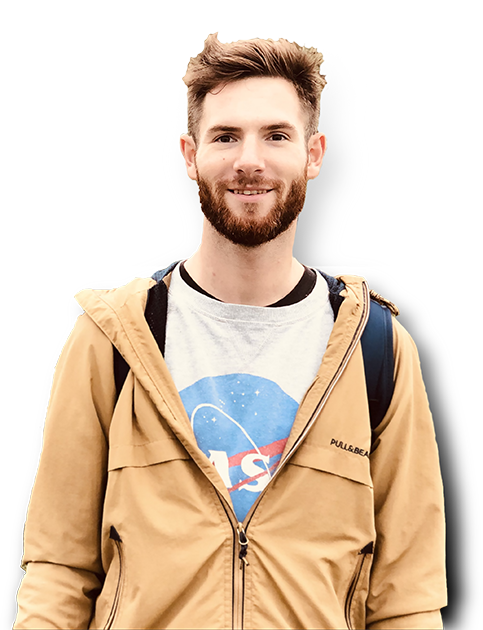
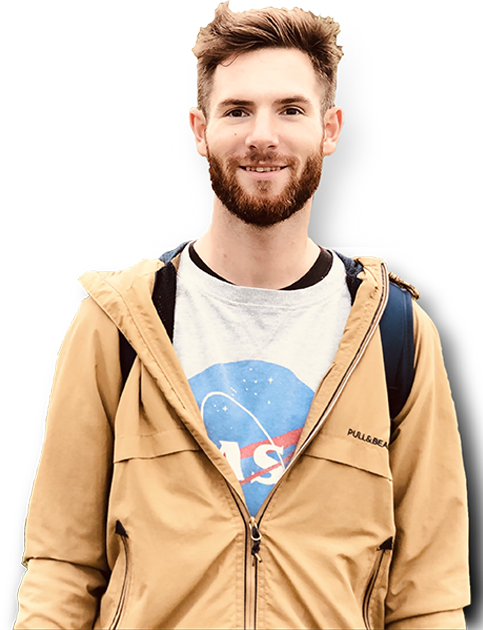
--upd header and first block responsive

diff --git a/css/styles.css b/css/styles.css
@@ -13,6 +13,17 @@
        url('../fonts/roboto-v20-latin_cyrillic-regular.woff2') format('woff2'), /* Super Modern Browsers */
        url('../fonts/roboto-v20-latin_cyrillic-regular.woff') format('woff'); /* Modern Browsers */
 }
+
+/* roboto-900 - latin_cyrillic */
+@font-face {
+  font-family: 'Roboto';
+  font-style: bold;
+  font-weight: 900;
+  src: local('Roboto Black'), local('Roboto-Black'),
+       url('../fonts/roboto-v20-latin_cyrillic-900.woff2') format('woff2'), /* Super Modern Browsers */
+       url('../fonts/roboto-v20-latin_cyrillic-900.woff') format('woff'), /* Modern Browsers */
+}
+
 /* roboto-italic - latin_cyrillic */
 @font-face {
   font-family: 'Roboto';
@@ -86,16 +97,17 @@ p, h1 {
 
 .main-block{
   overflow-x: hidden;
-  overflow-y: hidden;
   background-color: #fff;
 }
 
 #top-card {
   padding-left: 0;
   padding-right: 0;
+
 }
 
 .main-block__photo-container {
+  height: 385px;
   display: flex;
   flex-direction: column;
   justify-content: flex-end;
@@ -121,29 +133,37 @@ p, h1 {
 
 .content__name {
   font-size: 30px;
-  margin: 20px 0;
+  margin: 10px 0;
 }
 
 .content__title {
   font-size: 16px;
+  text-align: center;
   color: #c5c9d6;
 }
 
-.button-get-info {
-  border: 1px solid #21e6c1;
-  background-color: #21e6c1;
-  padding: 15px 20px;
-  text-align: center;
-  margin-top: 20px;
-  outline: none;
-  width: 100%;
-  color: #071e3d;
+.button {
+  border-radius: 0;
   font-size: 18px;
+  text-align: center;
+  border: 1px solid;
+  width: 200px;
+  height: 44px;
+  outline: none;
   cursor: pointer;
 }
 
-.button-get-info:hover {
+.button:hover {
   box-shadow: 2px 2px 5px gray;
+}
+
+.button-get-info {
+  border-color: #21e6c1;
+  background-color: #21e6c1;
+  margin-top: 30px;
+  color: #071e3d;
+  width: 100%;
+  height: 54px;
 }
 
 .srvices {
@@ -216,7 +236,8 @@ p, h1 {
 
 @media (min-width: 768px) {
   .container {
-    max-width: 720px;
+    min-width: 720px;
+    max-width: 945px;
   }
 
   .main-block {
@@ -227,20 +248,22 @@ p, h1 {
     position: relative;
     flex-direction: row;
     flex-wrap: nowrap;
-    padding-left: 20px;
-    padding-right: 20px;
+    height: 665px;
+
   }
 
   .main-block__photo-container {
     order: 1;
     position: absolute;
+    bottom: 0;
     right: -25%;
     width: 750px;
     height: 630px;
-    padding-left: 200px;
+    padding-left: 0;
     background: url('../img/ellipse_blue.png') no-repeat center 250px;
     background-size: contain;
     z-index: -10;
+    align-self: flex-end;
   }
 
   .main-block__content {
@@ -251,11 +274,14 @@ p, h1 {
   .photo-container__main-photo {
     height: 630px;
 
-   object-fit: contain;
+    object-fit: contain;
   }
 
   .button-get-info {
-    width: 270px;
+    max-width: 320px;
+    height: 68px;
+    width: 100%;
+    margin: 0;
   }
 
   .main-block__content {
@@ -264,15 +290,40 @@ p, h1 {
 
   .content__name {
     font-size: 54px;
+    font-weight: bold;
+    margin-top: 0;
+    margin-bottom: 20px;
   }
 
   .content__title {
     font-size: 25px;
+    margin-bottom: 40px;
   }
 }
 @media (min-width: 1025px) {
   .container {
-    max-width: 945px;
+    min-width: 945px;
+    max-width: 1170px;
+  }
+
+  .button-get-info {
+    max-width: 270px;
+    height: 58px;
+  }
+
+  .main-block__content {
+    padding: 190px 0;
+  }
+
+  .content__name {
+    font-size: 80px;
+    font-weight: bold;
+    margin-bottom: 0;
+  }
+
+  .content__title {
+    font-size: 25px;
+    margin-bottom: 40px;
   }
 
   .pricing {

diff --git a/index.html b/index.html
@@ -21,7 +21,7 @@
         </ul> <!--  .menu -->
       </nav>
       <a class="header__contacts" href="tel:+353852860646" target="_blank">+353 (85) 286-06-46</a> <!--  .contacts -->
-      <button class="button-get-started">Get Started</button>
+      <button class="button button-get-started button-get-started--mobile">Get Started</button>
     </div> <!--  .container -->
   </header>
   <main>
@@ -41,7 +41,7 @@
         <div class="main-block__content">
           <h1 class="content__name">Danila Kornilov</h1> <!--  .content__name -->
           <p class="content__title">Full stack Python developer</p> <!--  .content__title -->
-          <button class="button-get-info">Get info</button>
+          <button class="button button-get-info">Get info</button>
         </div> <!--  .main-block__content -->
       </div> <!--  #top_card -->
     </section> <!--  .main-block -->
@@ -68,9 +68,9 @@
     <div class="container footer" id="footer-container">
       <nav>
         <ul class="footer__menu">
-          <li class="item"><p><a href="#">Services</a></p></li>
-          <li class="item"><p><a href="#">Portfolio</a></p></li>
-          <li class="item"><p><a href="#">Pricing</a></p></li>
+          <li class="footer__item"><p><a href="#">Services</a></p></li>
+          <li class="footer__item"><p><a href="#">Portfolio</a></p></li>
+          <li class="footer__item"><p><a href="#">Pricing</a></p></li>
         </ul>
       </nav>
       <address class="footer__contacts">
@@ -78,8 +78,8 @@
         <a class="contacts" href="mailto:kornilovdanilaa@gmail.com" target="_blank"><ion-icon name="mail-open"></ion-icon>kornilovdanilaa@gmail.com</a>
       </address> <!--  .footer2 -->
       <div class="footer__actions">
-        <button class="button-get-started">Get Started</button>
-        <button class="button-get-info">Get info</button>
+        <button class="button button-get-started">Get Started</button>
+        <button class="button button-get-info">Get info</button>
         <ul class="social-networks">
           <li><a class="sn-icon vk" href="http://vk.com/" target="_blank"></a></li>
           <li><a class="sn-icon fb" href="http://facebbook.com/" target="_blank"></a></li>

diff --git a/css/header_styles.css b/css/header_styles.css
@@ -3,7 +3,7 @@
 }
 
 #header-container {
-  padding: 20px 20px;
+  padding: 18px 20px;
   display: flex;
   justify-content: space-between;
   align-items: center;
@@ -12,10 +12,10 @@
 
 .header__toggle {
   outline: none;
-  width: 35px;
-  height: 35px;
+  width: 24px;
+  height: 24px;
   background: url('../img/menu_mobile_blue.png') center no-repeat;
-  background-size: 30px;
+  background-size: contain;
   border: none;
 }
 
@@ -23,16 +23,13 @@
   background: url('../img/close.png') center no-repeat;
 }
 
-.button-get-started {
-  border: none;
+.button-get-started--mobile {
+  border: none !important;
   border-radius: 50%;
   background-color: #fff;
   background: url('../img/call_icon_blue.png') center no-repeat;
-  width: 30px;
-  height: 30px;
-  outline: none;
-  cursor: pointer;
-  font-size: 0;
+  width: 30px !important;
+  font-size: 0 !important;
 }
 
 .menu {
@@ -72,33 +69,36 @@
   border-bottom: 1px solid #21e6c1;
 }
 
-.button-get-started:hover {
-  box-shadow: 2px 2px 5px gray;
-}
 
 @media (min-width: 768px) {
+  #header-container {
+    padding: 30px 0;
+  }
+
   .header {
   background-color: transparent;
-}
+  }
+
+  .header__toggle {
+    width: 45px;
+    height: 45px;
+  }
 
   .button-get-started {
-    border: 2px solid #21e6c1;
-    border-radius: 0;
-    background-color: #fff;
+    background-color: #fff !important;
+    color: #071e3d !important;
+    border: 1px solid #21e6c1 !important;
+    width: 200px !important;
     background-image: none;
-    width: 200px;
-    height: 46px;
-    color: #071e3d;
-    text-align: center;
-    font-size: 16px;
-    outline: none;
-    cursor: pointer;
+    font-size: 18px !important;
   }
 
   .header__contacts {
+    font-size: 25px;
+    font-weight: bold;
     flex-grow: 1;
     text-align: right;
-    margin-right: 20px;
+    margin-right: 35px;
     font-weight: bold;
   }
 
@@ -106,13 +106,13 @@
     justify-content: flex-start;
   }
 
-  .menu__item {
-    margin-left: 10px;
+  .menu__item:not(:first-child){
+    margin-left: 30px;
     align-self: center;
   }
 }
 
-@media (min-width: 1024px)  {
+@media (min-width: 1025px)  {
   .header__toggle {
     display: none;
   }

diff --git a/css/footer_styles.css b/css/footer_styles.css
@@ -31,11 +31,11 @@
   margin: 20px 0 0 ;
 }
 
-.footer__menu .item {
+.footer__menu .footer__item {
   margin-bottom: 10px;
 }
 
-.footer__menu .item a{
+.footer__menu .footer__item a{
   font-size: 18px;
   color: #8993ad;
 }
